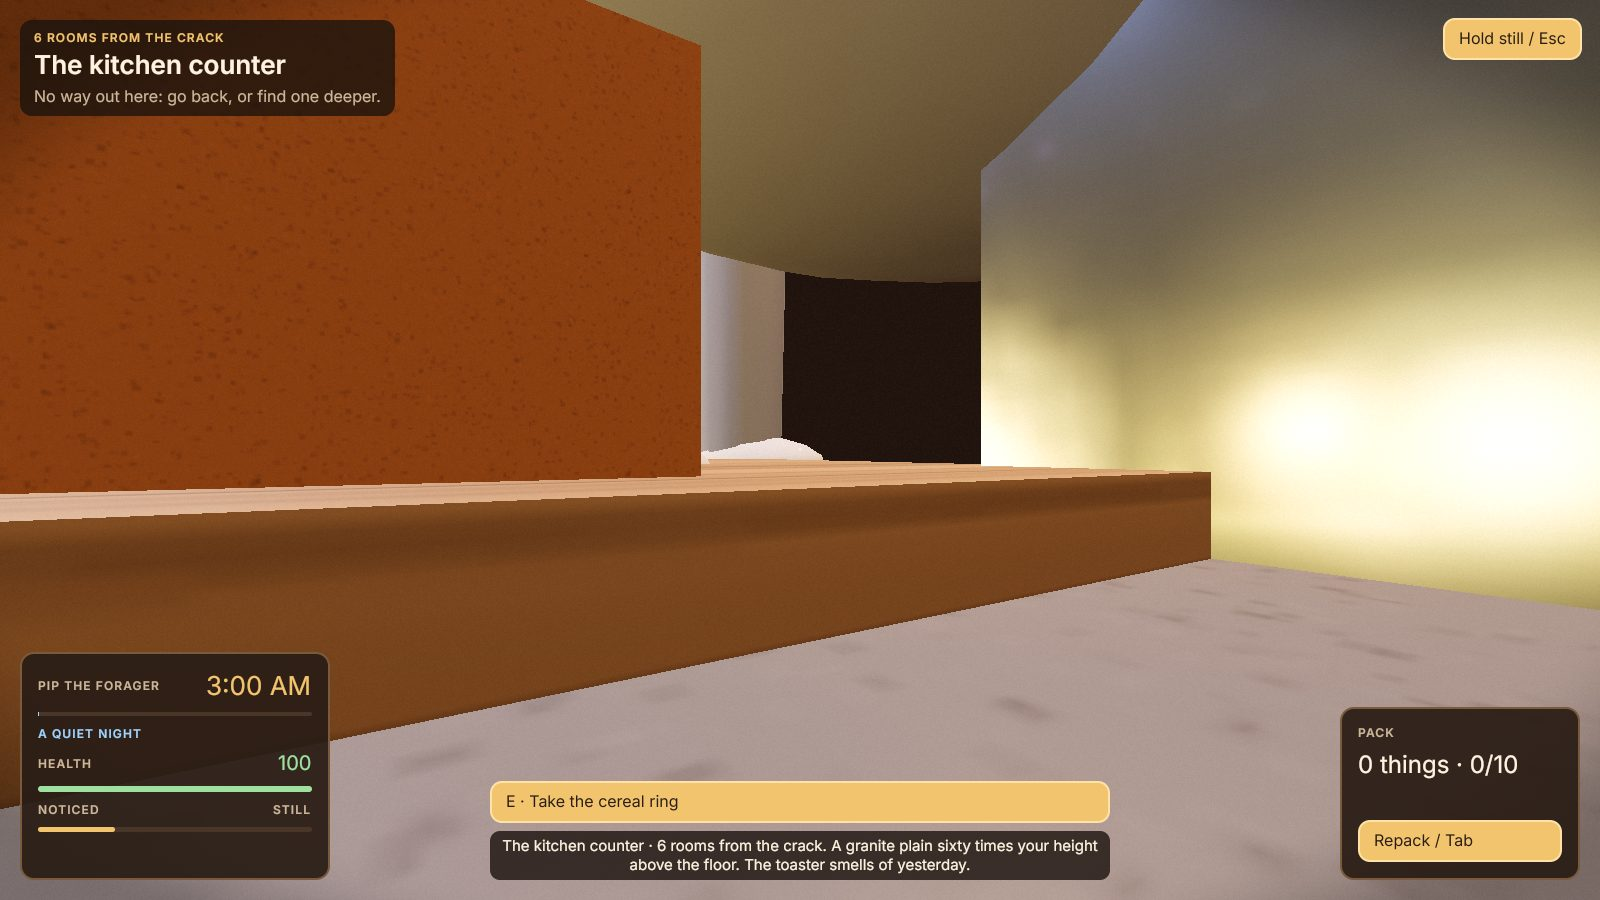
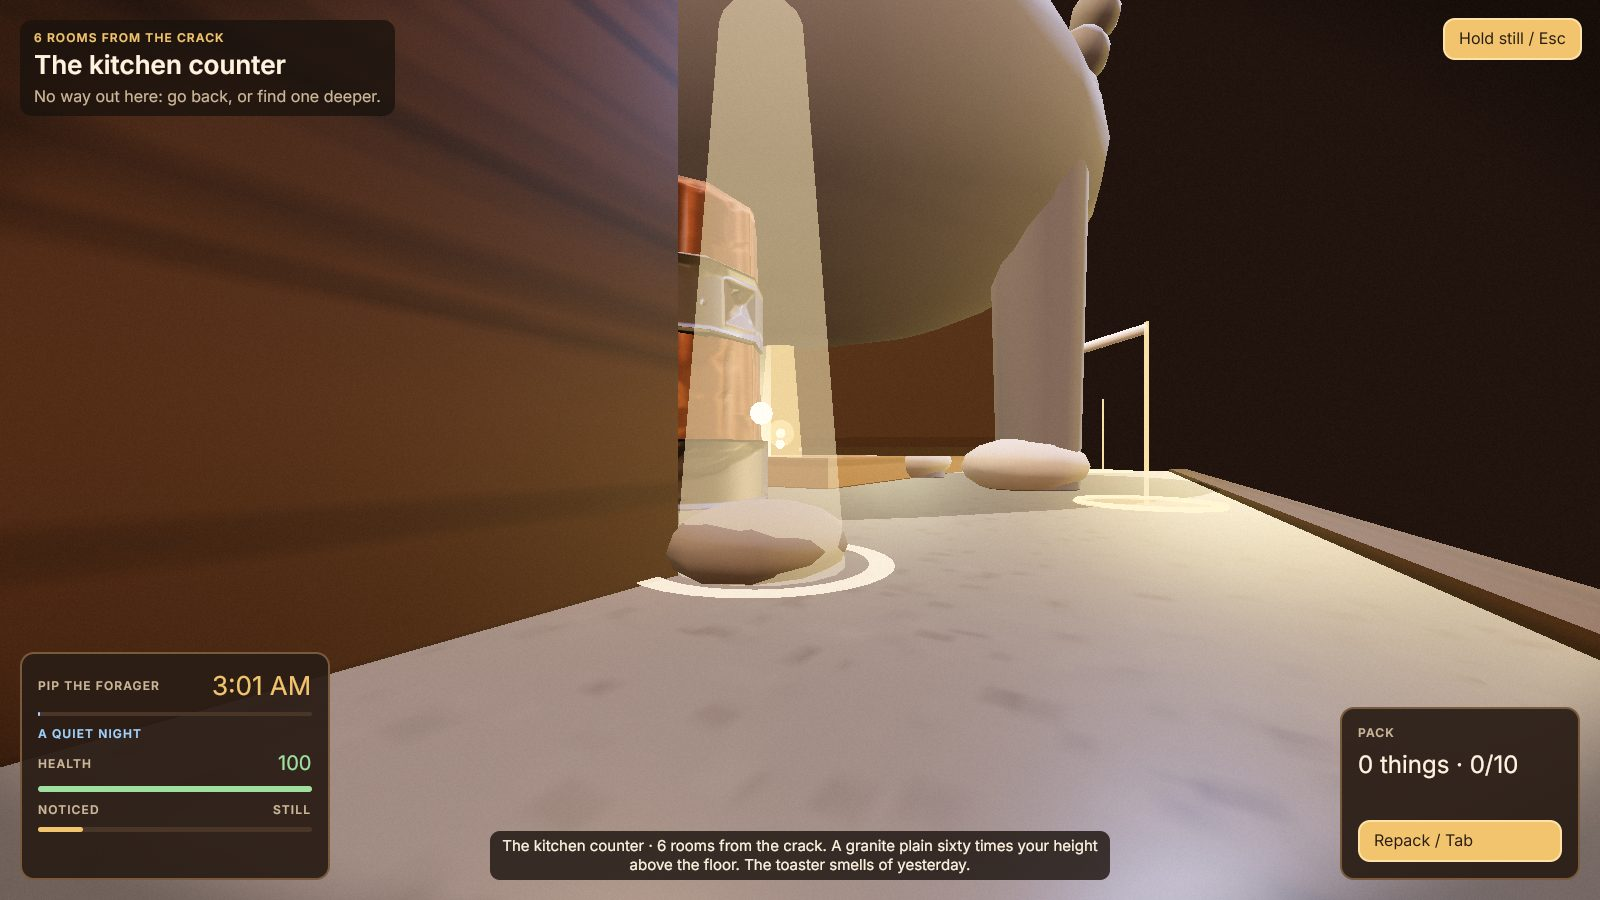
Crumb Run look round 5: a capture state for every room, refreshed look captures, plan handoff
Claude-Session: https://claude.ai/code/session_013QRD1Uoma5dcaZMX6Wth29

diff --git a/games/deepward/src/game.tsx b/games/deepward/src/game.tsx
@@ -12,7 +12,7 @@ import { defineGame } from "@jgengine/shell/defineGame";
 import { useGameContext } from "@jgengine/ui/provider";
 import { useStore } from "@jgengine/ui/store";
 import { hdriEnvironment } from "@jgengine/assets/catalogs/hdriLibrary";
-import { BURROW, editorLayers, physics, world } from "./world";
+import { BURROW, editorLayers, physics, ROOM_TEMPLATES, world } from "./world";
 import { houseAssets } from "./game/assets";
 import { canSprint, captureProbe, guideOf, initialize, keybinds, moveRule, seatPlayer, setAim, templateOf, tickControls, viewStore, type View } from "./game/controls";
 import { registerCaptureCommands } from "./game/capture";
@@ -204,6 +204,8 @@ export const game = defineGame({
       "room-rug": ["deepward.enter", { name: "deepward.dev.room", input: { template: "living-rug" } }],
       "room-toys": ["deepward.enter", { name: "deepward.dev.room", input: { template: "toy-shelf" } }],
       "room-attic": ["deepward.enter", { name: "deepward.dev.room", input: { template: "attic-boxes" } }],
+      // Every other room template, by id: `room:<template>`.
+      ...Object.fromEntries(ROOM_TEMPLATES.map(t => [`room:${t.id}`, ["deepward.enter", { name: "deepward.dev.room", input: { template: t.id } }]])),
     },
   },
 });

diff --git a/games/deepward/PLAN.md b/games/deepward/PLAN.md
@@ -157,6 +157,13 @@ backed HUD text and hunter tells, the Cat dropping its head when it crouches, sh
 Capture states: `burrow`, `first-room`, `mid-run`, `cat-tell`, `room-counter`, `room-rug`,
 `room-toys`, `room-attic`, `report`, `stash`, `workbench`, `nook`.
 
-Next: the hunters still read as walls of fur up close (a Little's eye line is below a cat's chest),
-so consider a wider field of view or a low-angle readable silhouette; give the remaining templates
-the same pass (props crowd some doorways); the UI sheets (stash, workbench, nook) were not inspected.
+Look round 4: every find stands in a coloured light column with a ring and a twinkle (gold food, blue
+parts, pink curios, green gear, red caps) and the one E takes gets an outline and lifts; CC0 household
+models at inch-high scale (KayKit couch, armchair, lamp, rug, kid's bed; Quaternius bread, mug, jars,
+cutlery, plates, chest, books, boxes, cans, tyres); props are slid out of doorways; an 82 degree view
+and soft floor shadows under the Cat and dog. Every room has a capture state, `room:<template>`.
+
+Next: room overviews still land beside a giant prop in dense rooms (dining table, rug); the Cat and dog
+are procedural (a library dog model exists but is unanimated); ten rooms have had no model pass yet
+(kitchen cabinets, under the fridge, bookshelf, front hall, under the bed, bathroom, laundry, both
+garage shelves rooms beyond a few cans); UI sheets beyond the workbench were not inspected.
